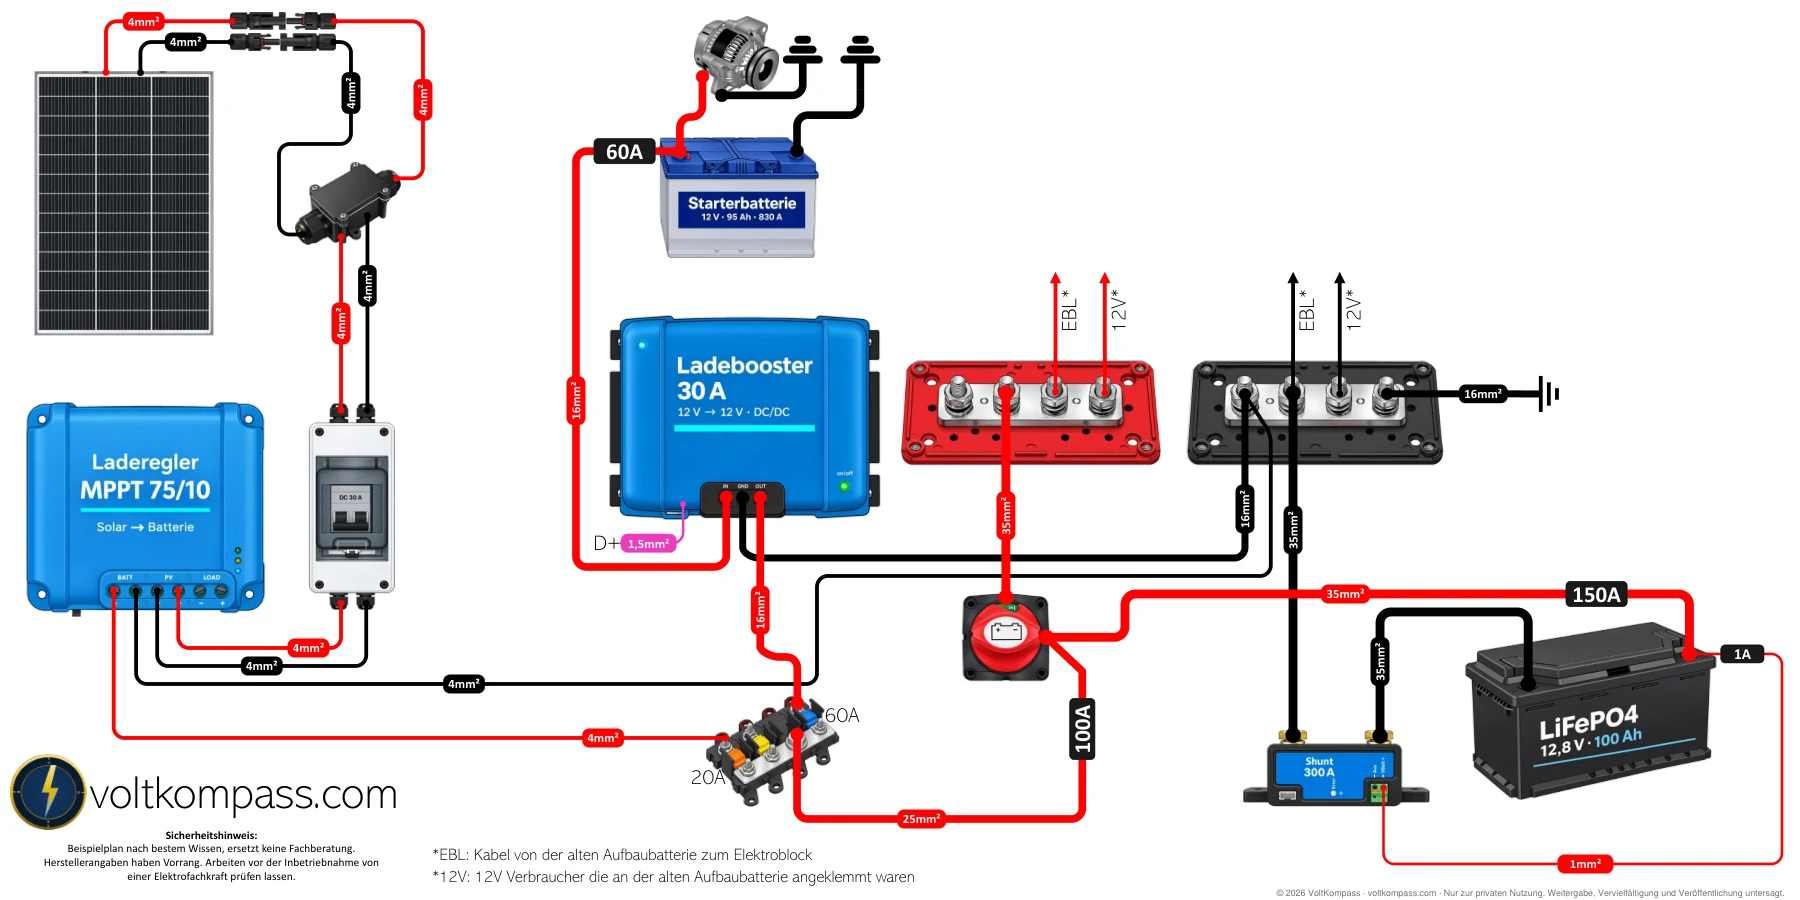
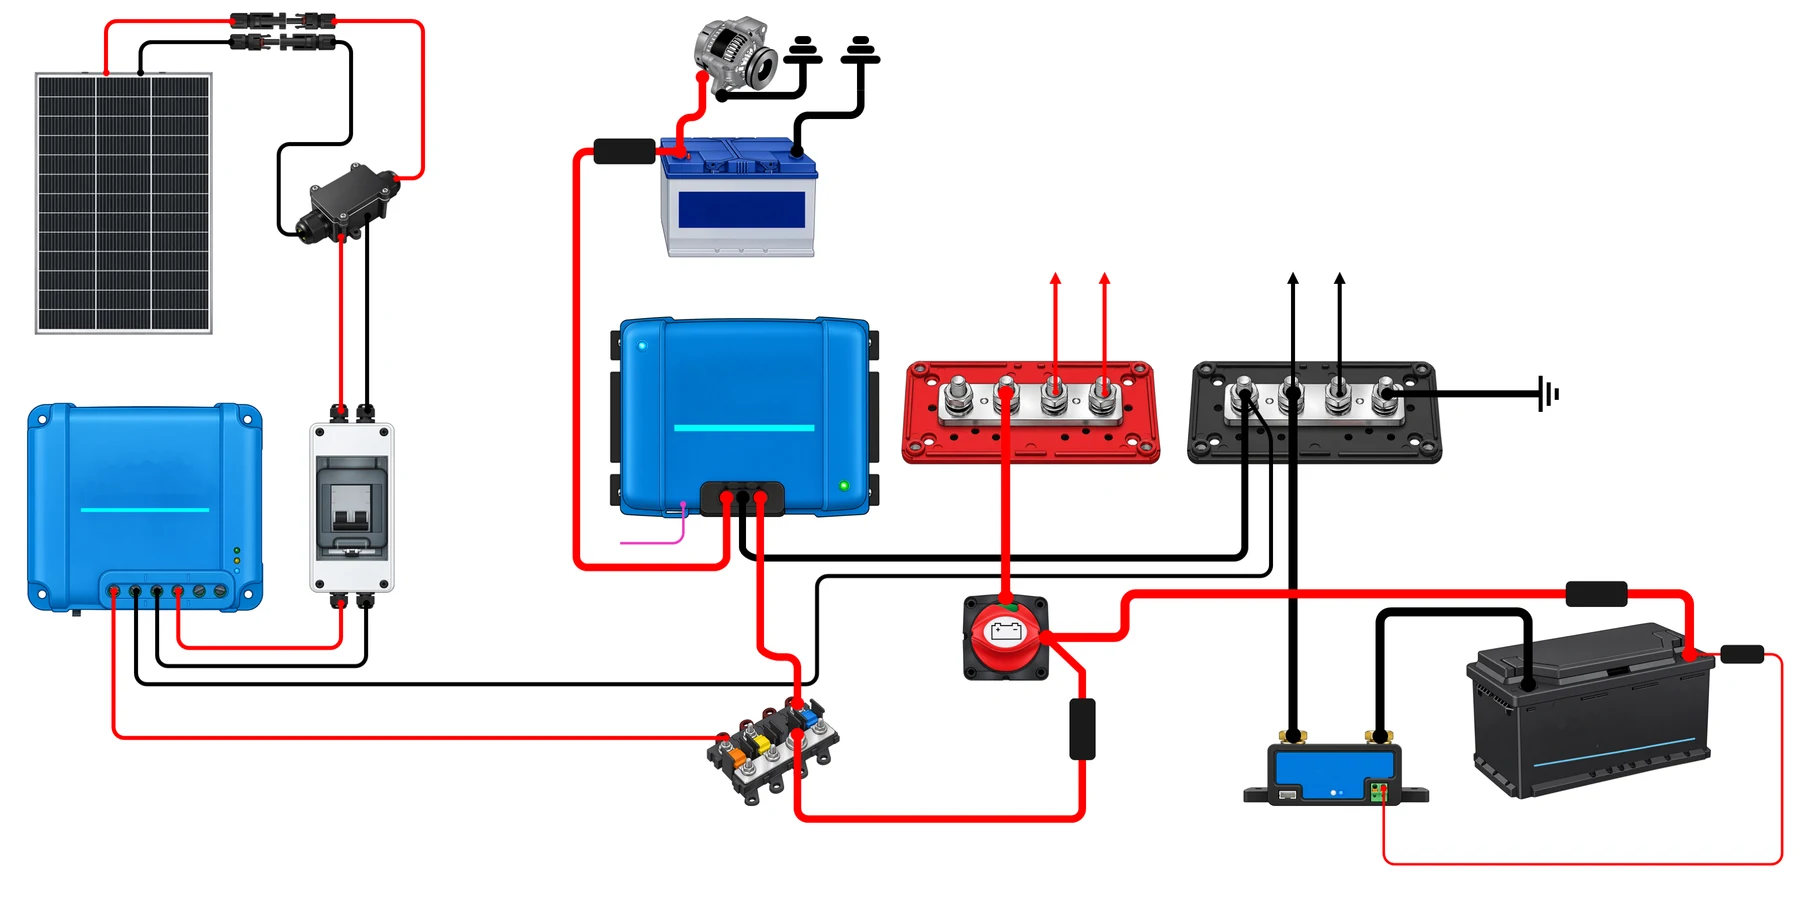
Karte Gesamtplan: Beispielbild ohne Texte, Zahlen und Gerätenamen, Hinweis oben rechts
Aus einer Kopie der PPTX (Solar 100 W / Ladebooster 30 A / Akku 100 Ah) alle Textfelder,
Querschnitt-Schilder und das Logo entfernt, Schrift in den Gerätebildern wegretuschiert,
Sicherungen und Masse-Symbole bleiben ohne Werte stehen.
Hinweis „Nur ein Beispiel ohne Details – die stehen im gekauften Stromlaufplan.“ oben rechts,
Plan sitzt unten im Kasten, damit der Hinweis nichts verdeckt.

diff --git a/index.html b/index.html
@@ -30,7 +30,7 @@
 <link href="https://fonts.googleapis.com/css2?family=Space+Grotesk:wght@400;500;600;700&family=Orbitron:wght@700;800&family=Inter:wght@400;500;600&display=swap" rel="stylesheet" />
 <link rel="stylesheet" href="styles.css?v=20261028-2" />
 <link rel="stylesheet" href="theme.css?v=20261127-2" />
-<link rel="stylesheet" href="home.css?v=20261127-3" />
+<link rel="stylesheet" href="home.css?v=20261127-4" />
 <script type="application/ld+json">
 {
   "@context": "https://schema.org",
@@ -376,7 +376,7 @@
     </div>
     <div class="inhalt-grid">
       <article class="inhalt-karte reveal">
-        <div class="inhalt-bild inhalt-bild-ganz"><img src="assets/stromlaufplaene/gesamtplan-klein-scharf.webp?v=1" width="1800" height="900" loading="lazy" decoding="async" alt="Gesamtplan Wohnmobil-Elektrik: 100 W Solar, 30-A-Ladebooster und 100 Ah LiFePO4 mit allen Querschnitten und Sicherungen"/></div>
+        <div class="inhalt-bild inhalt-bild-ganz"><img src="assets/stromlaufplaene/gesamtplan-klein-scharf.webp?v=2" width="1800" height="900" loading="lazy" decoding="async" alt="Beispiel eines Gesamtplans fürs Wohnmobil: Solarmodul, Laderegler, Ladebooster, Busbars, Hauptschalter und LiFePO4-Akku verdrahtet, ohne Werte"/><span class="inhalt-hinweis">Nur ein Beispiel ohne Details –<br>die stehen im gekauften Stromlaufplan.</span></div>
         <span class="inhalt-nr">01</span>
         <h3>Gesamtplan</h3>
         <p>Alle Geräte auf einer Seite, jede Leitung mit Querschnitt und Sicherung eingetragen.</p>

diff --git a/home.css b/home.css
@@ -386,8 +386,14 @@
 .inhalt-bild img{width:100%;height:100%;object-fit:cover;transition:transform .6s}
 .inhalt-bild-zoom{position:relative}
 /* Karte 01: scharfer Gesamtplan des kleinsten Setups, ganz sichtbar statt angeschnitten */
-.inhalt-bild-ganz img{object-fit:contain;padding:6px}
-@media (max-width:640px){.inhalt-bild-ganz{aspect-ratio:2/1}.inhalt-bild-ganz img{padding:4px}}
+/* Plan sitzt unten, oben rechts bleibt Platz für den Hinweis, damit er nichts verdeckt */
+.inhalt-bild-ganz{position:relative}
+.inhalt-bild-ganz img{object-fit:contain;object-position:center bottom;padding:6px}
+@media (max-width:640px){.inhalt-bild-ganz{aspect-ratio:1.6/1}.inhalt-bild-ganz img{padding:4px}}
+.inhalt-hinweis{position:absolute;top:6px;right:6px;max-width:66%;padding:4px 8px;border-radius:8px;
+  background:rgba(11,18,32,.9);border:1px solid rgba(230,178,0,.6);color:#f2f4f8;
+  font-size:10px;line-height:1.25;font-weight:600;text-align:left;pointer-events:none}
+@media (min-width:641px){.inhalt-hinweis{max-width:72%}}
 .inhalt-bild-zoom img{position:absolute;width:240%;height:auto;max-width:none;left:-39%;top:12%}
 .inhalt-karte:hover .inhalt-bild img{transform:scale(1.06)}
 .inhalt-nr{padding:0 8px;font-size:11.5px;font-weight:600;letter-spacing:.18em;color:var(--gold)}

diff --git a/beratung.html b/beratung.html
@@ -25,7 +25,7 @@
 <link href="https://fonts.googleapis.com/css2?family=Space+Grotesk:wght@400;500;600;700&family=Orbitron:wght@700;800&family=Inter:wght@400;500;600&display=swap" rel="stylesheet" />
 <link rel="stylesheet" href="styles.css?v=20261127-1" />
 <link rel="stylesheet" href="theme.css?v=20261127-2" />
-<link rel="stylesheet" href="home.css?v=20261127-3" />
+<link rel="stylesheet" href="home.css?v=20261127-4" />
 </head>
 <body class="home beratung-seite">
 <header class="nav">
